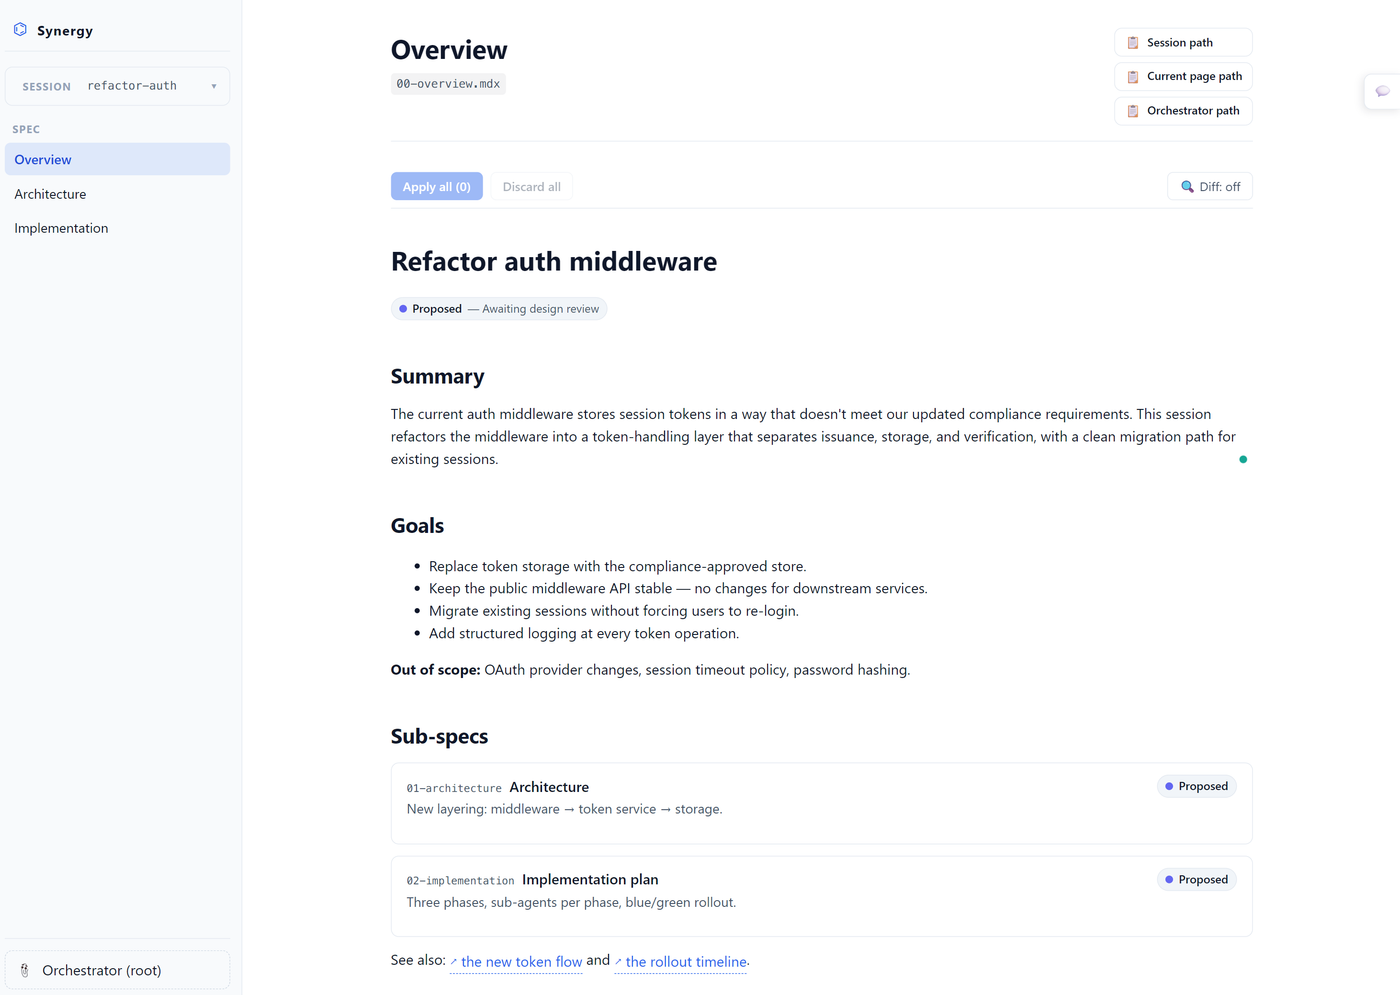
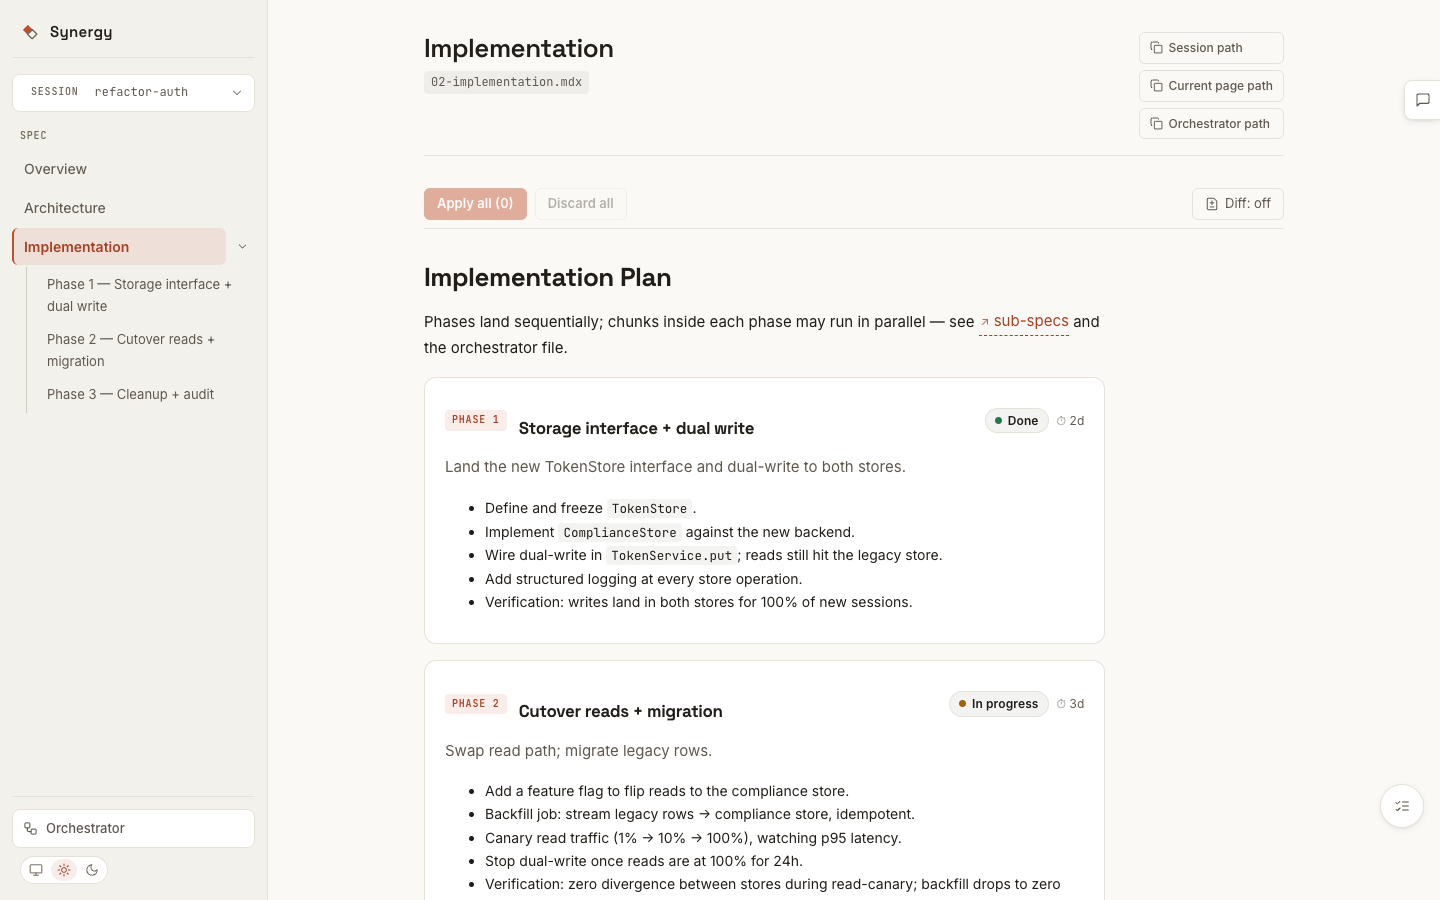
docs(readme): retake screenshot on the redesigned preview
Implementation page of the refactor-auth example in the new Ember &
Graphite design; alt text updated to match.

diff --git a/README.md b/README.md
@@ -11,7 +11,7 @@ Markdown specs go stale in a terminal. Synergy gives agents a tight component vo
 
 ## Demo
 
-![Synergy preview: the refactor-auth overview spec at localhost:4321 showing the inline-edit toolbar (Apply all / Discard all / Diff toggle), the left sidebar, copy-path buttons, and a rendered Status badge over Summary, Goals, and Sub-specs](docs/screenshot.png)
+![Synergy preview: the refactor-auth implementation plan at localhost:4321 showing the inline-edit toolbar (Apply all / Discard all / Diff toggle), the left sidebar with phases nested under Implementation, copy-path buttons, a theme toggle, and Phase cards with live status badges (Done, In progress)](docs/screenshot.png)
 
 The preview at `http://localhost:4321` gives each MDX file its own route (`/s/<name>/overview`, `/architecture`, `/implementation`, `/phases/<slug>`), a hierarchical left sidebar (sessions dropdown, spec rows, phases nested under Implementation), and per-page copy-path buttons for the session dir, the current page, and the orchestrator. The orchestrator opens as a right-side slide-out drawer (ESC or backdrop to close) rendering `orchestrator.md`, and every page hot-reloads as Claude Code edits the MDX.
 
